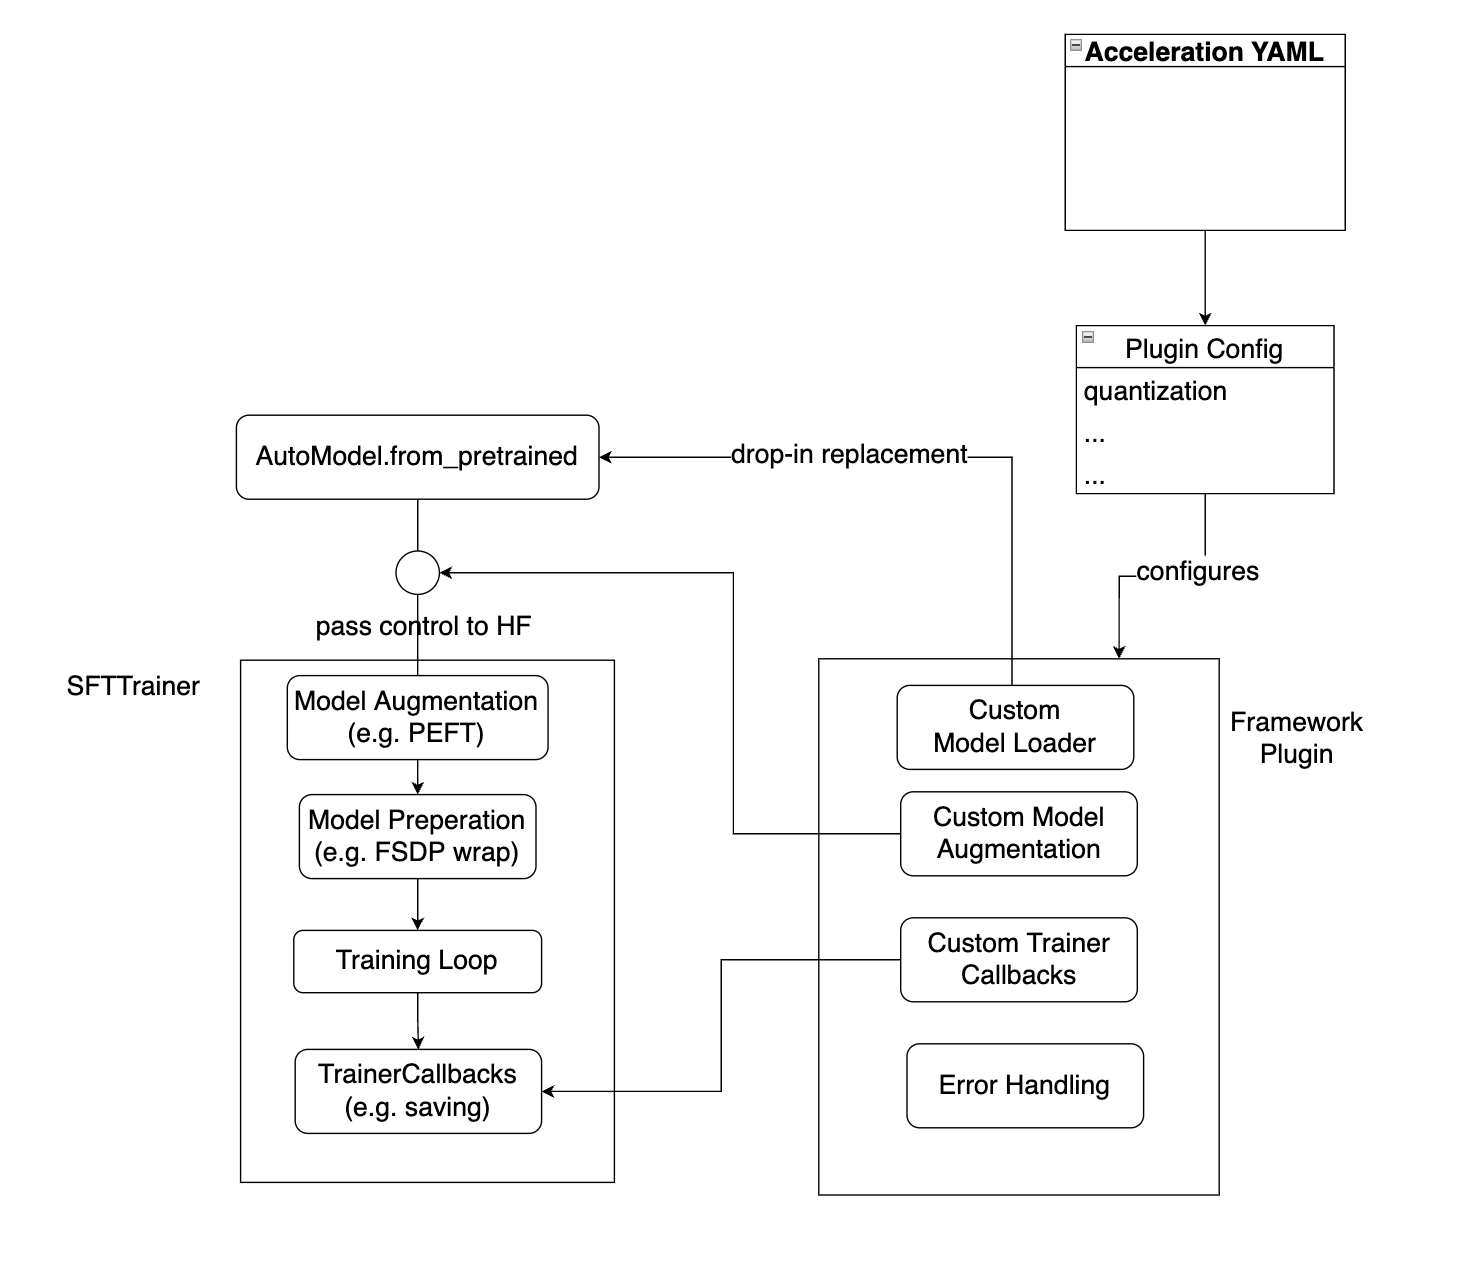
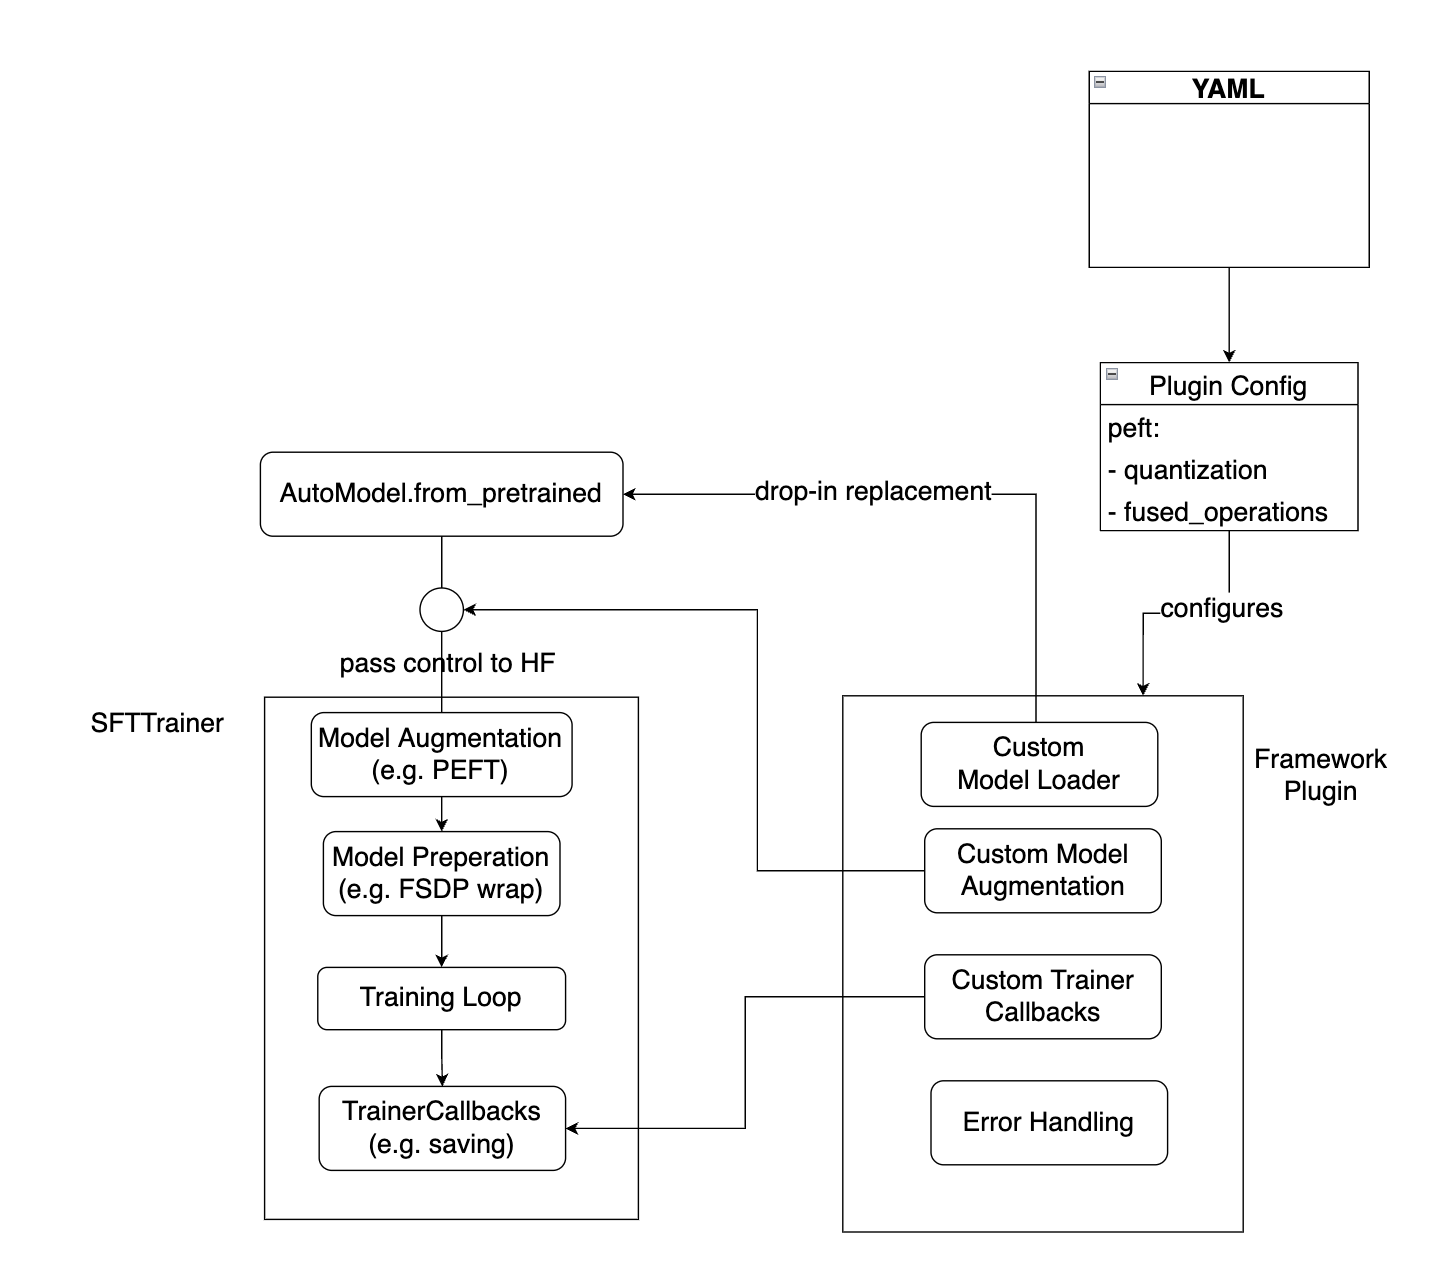
address comments and rebase over detailed design

diff --git a/architecture_records/002-acceleration-framework.md b/architecture_records/002-acceleration-framework.md
@@ -1,4 +1,4 @@
-# Training and FineTuning Acceleration Framework
+# Training Enhancements Framework
 
 **Deciders(s)**: Sukriti Sharma (sukriti.sharma4@ibm.com), Raghu Ganti (rganti@us.ibm.com), Laura Wynter (lwynter@sg.ibm.com), Fabian Lim (flim@sg.ibm.com), Aaron Chew (aaron.chew1@ibm.com)
 **Date (YYYY-MM-DD)**:  2024-04-11
@@ -31,14 +31,18 @@ Currently `sft_trainer.py` only can access those tools already integrated in HF.
 2. Prefix tuning from [PEFT](https://github.com/huggingface/peft).
 3. FSDP training from [accelerate](https://github.com/huggingface/accelerate).
 
-Below are various reasons for a framework to integrate custom training tools into [`sft_trainer.py`]. 
+Below are various reasons for a framework to integrate custom training tools into `sft_trainer.py`. 
 * Enable quick integrations of open-source techniques that have yet to be integrated into Huggingface.
 * Enable integrations of custom techniques developed by IBM researchers, that are not planned be integrated into Huggingface.
 
 Recently, it has been observed that new training techniques are released with an incomplete "preview" version. These "preview" versions tend to be not be fully integrated into OSS. Therefore, using new techniques typically involve additional work. This framework aims to allow timely integrations of such techniques into `sft_trainer.py`. A short exampler list of powerful training techniques but are "preview"-only include:
-- [Unsloth](https://github.com/unslothai/unsloth).
-- [megablocks](https://github.com/databricks/megablocks).
 - [AutoGPTQ](https://github.com/AutoGPTQ/AutoGPTQ).
+    * 4-bit quantization kernels to reduce memory storage of the base weights.
+- [Unsloth](https://github.com/unslothai/unsloth).
+    * Fused operation kernels
+    * Kernels for common model architectures (e.g., cross-entropy losses, RoPE embeddings and RMS norms).
+- [megablocks](https://github.com/databricks/megablocks).
+    * acceleration package for distributing mixture-of-experts that improves upon FSDP sharding.
 
 <!--
 Why this is a valuable problem to solve? What background information is needed to show how this design addresses the problem?
@@ -47,7 +51,6 @@ Which users are affected by the problem? Why is it a problem? What data supports
 -->
 
 ### User Benefit
-
 
 Users will benefit from powerful training tools integrated into the platform, that are not readily accessible from huggingface. With these tools, users will be able to train models with less GPU resources and/or quicker, resulting in quicker turnaround and improved user experience. 
 
@@ -80,7 +83,7 @@ The framework is designed to only modify them model at two integration points in
 3. an *optional* `callback` method to install `TrainerCallbacks` (if needed, e.g. custom save logic).
 
 ```python
-class FrameworkPlugin:
+class TuningAccelerationPlugin:
 
     # if specified, will restricted plugin to specified model archs
     # - useful if method is restricted to certain model architectures, e.g., only used 
@@ -111,26 +114,24 @@ Even though they are all optional, at least one out of the three should be imple
 ### Dependency Management
 
 Take note:
-- all plugin deps must be enforced to be optional deps in `pyproject.toml`, see [116](#116). If the dep is not installed, and the plugin is enabled, raise exception.
+- all plugin deps must be enforced to be optional deps in `pyproject.toml`, see [116](https://github.com/foundation-model-stack/fms-hf-tuning/pull/116). If the dep is not installed, and the plugin is enabled, raise exception.
 - any plugin that requires CUDA build tools (e.g. `triton` kernels) will need to be run in with [CUDA Toolkit dependencies (see this link for an example of a Debian installation)](https://developer.nvidia.com/cuda-12-2-0-download-archive?target_os=Linux&target_arch=x86_64&Distribution=Debian&target_version=11&target_type=deb_local). 
-    * in such cases, both the library (e.g. `triton`), and CUDA tools, need to be checked.
-
-
+    * whenever CUDA is needed, the framework will check for the CUDA_TOOLS dependency.
 
 ### Minimal and Controlled Changes to Training Script
 
-All proposed code changes to [`sft_trainer.py`] contained in minimal lines of code:
+All proposed code changes to `sft_trainer.py` contained in minimal lines of code:
 - Plugins loaded by discovery; transparent to `sft_trainer.py`.
 - Plugin configuration automatically parsed.
 - Passthrough to original operation if `Framework` is disabled.
 
 ```python
-from tuning.proposed_framework import Framework
+from tuning.acceleration import AccelerationFramework
 
 # Minor Change 1: creating the framework object
 framework = None
 if framework_args.config_file is not None:
-    framework = Framework(framework_args.config_file)
+    framework = AccelerationFramework(framework_args.config_file)
 
 # Minor Change 2: custom loader (if necessary)
 _model_loader = AutoModelForCausalLM.from_pretrained # default
@@ -162,17 +163,25 @@ trainer.add_callbacks(framework.callbacks())
 
 # call train
 trainer.train()
-
 ```
 
-The picture below summarizes the above discussion. 
+The picture below summarizes the above discussion in more detail. It demonstrates how the design will not contradict internal workings of [`SFTTrainer`].
 - Model is modified and then control passed to [`SFTTrainer`].
 - [`SFTTrainer`] also performs model augmentation internally (e.g., it installs PEFT adapters if `peft_config` is passed in). 
     * However, [`SFTTrainer`]'s model augmentation should be passed through if configs are omitted (e.g., if `peft_config = None`).
 - [`SFTTrainer`] will prepare model for distributed training (e.g. wrap with `FSDP`) internally. 
-    * thus Plugin implementers need to be aware that `FrameworkPlugin.augmentation` should not interfere with any model preperation that [`SFTTrainer`] will perform.
+    * thus Plugin implementers need to be aware that `TuningAccelerationPlugin.augmentation` should not interfere with any model preperation that [`SFTTrainer`] will perform.
 
 ![Framework](imgs/002-framework.png)
+
+### Acceleration Methods 
+
+A top priority is to incorporate methods that enchance PEFT. While PEFT is known to be memory efficient, it is known to be slower than full-finetuning if not *properly optimized*. Also, another topic of interest is to add support for 4D masks to enable packing while instruction tuning; this acceleration may require some adjustments to the data processing. 
+1. Add 4-bit `triton` kernels for PEFT base weights.
+2. Add fused kernels for PEFT base models, as well as reusable kernels for other models (e.g. cross-entropy loss, RoPE).
+3. Add support for 4D masking (may require `TuningAccelerationPlugin.augmentation` to also access the datasets).
+4. Add support for distributed training (i.e., `megablocks`).
+
 
 <!--
 This is the meat of the document, where you explain the decision. If you have multiple alternatives, be sure to use sub-sections for better separation of the idea, and list pros/cons to each approach. If there are alternatives that you have eliminated, you should also list those here, and explain why you believe your chosen approach is superior.
@@ -182,10 +191,13 @@ Make sure you’ve thought through and addressed the following sections. If a se
 
 ### Alternatives Considered
 
-[IN PROGRESS]
+We have considered the following.
 
-1. Alternative script to [`sft_trainer.py`].
-2. Do not touch 
+Consideration | Reason for Rejection
+--|--
+Only having `augmentation` and not employing any drop-in `loading` | Some methods like quantization has specialized checkpoints which require special loaders. Attempting to modify already instantiated models to load such specialized checkpoints can be error prone. Futhermore, for future extensions not having any drop-in `loading` can be a severe handicap.
+Adding tuning enchancements directly to `SFT_Trainer` | The trainer is a very complex object, and manipulating it in unintended ways can have serious repurcussions. As such, we choose to allow `TuningAccelerationPlugin.augmentation` to modify only the `Accelerator` object which can already do quite a bit of things, like adjust the FSDP wrapping policy (for distributed training).
+
 
 <!--
 - Make sure to discuss the relative merits of alternatives to your proposal.
@@ -193,10 +205,12 @@ Make sure you’ve thought through and addressed the following sections. If a se
 
 ## Consequences
 
-[IN PROGRESS]
+We have considered the following
 
-Drawbacks:
-- cannot support any plugin design that requires a controlled call in places not supported by `TrainerCallbacks`.
+Consideration | Background | Steps to Alleviate
+--|--|--
+Hosting custom packages | Sometimes the enhancements depend on OSS packages that have been improved on. | If the package
+Managing depdencies |  | Have `TuningAccelerationPlugin`
 
 <!--
 Describe the resulting context, after applying the decision. All consequences should be listed here, not just the "positive" ones. A particular decision may have positive, negative, and neutral consequences, but all of them affect the team and project in the future.
@@ -205,44 +219,35 @@ Describe the resulting context, after applying the decision. All consequences sh
 
 ## Detailed Design
 
-This section is optional. Elaborate on details if they’re important to understanding the design, but would make it hard to read the proposal section above.
 
-`acceleration.yaml`
-```
+<!--
+This section is optional. Elaborate on details if they’re important to understanding the design, but would make it hard to read the proposal section above.
+-->
+
+In this section we demonstrate how to implement an `AutoGPTQPlugin` that implements an accelerate PEFT training mode with 4 bit GPTQ base weights.
+
+This is an `acceleration.yaml`
+```yaml
 quantization:
   - requires_quantization: True
   - quant_num_bits: 4
-  - quantize_cache: '/home/user/'
   - quant_kernel: 'gptq-tritonv2'
-  - unsloth: False
 ```
 
-```
+```python
 from functools import partial
 
-class Framework:
+class AutoGPTQPlugin(TuningAccelerationPlugin):
     def __init__(self, acceleration_config_path:str) -> None:
-        self.acceleration_config = self.read_acceleration_config(acceleration_config_path)
-        self.num_bits = self.acceleration_config.quant_num_bits
-        self.requires_custom_loading = self.acceleration_config.requires_custom_loading
-        self.requires_quantization = self.acceleration_config.requires_quantization
-        self.quantize_cache = self.acceleration_config['quantize_cache']
-        self.kernel = self.acceleration_config['quant_kernel']
+        # ...  initialize config
 
-    def read_acceleration_config(self, acceleration_config_path):
-        pass
+    def model_loader(self, model_path, **kwargs):
 
-    def callbacks(self, *args, **kwargs):
-        pass
-    
-    def model_loader(self):
+        # ... maybe quantize if needed
         quantize_config = QuantizeConfig(
             bits=self.num_bits, 
         )
-        if self.requires_quantization:
-            return partial(AutoGPTQForCausalLM.from_pretrained, quantize_config = quantize_config)
-        else:
-            return partial(AutoGPTQForCausalLM.from_quantized, quantize_config = quantize_config)
+        return AutoGPTQForCausalLM.from_quantized(model_path, quantize_config = quantize_config)
 
     def augmentation(
         self, 
@@ -251,29 +256,12 @@ class Framework:
         train_args, 
         peft_config,
     ):
-        '''
-        This function is used for any augmentation of the model before trainings 
-        e.g. quantization, unsloth/PEFT installation and also MegaBlocks patching
-        '''
+        assert peft_config is not None, "need peft_config to install PEFT adapters"
 
-        if self.requires_quantization:
-            model.quantize()
-            model.save_quantized(save_dir = self.quantize_cache)
-
-        if peft_config:
-            # PEFT Installation
-            if 'gptq' in self.kernel:
-                from auto_gptq.utils.peft_utils import get_gptq_peft_model
-                model = get_gptq_peft_model(
-                    model, 
-                    peft_config = peft_config, 
-                )
-            else:
-                from peft import get_peft_model
-                model = get_peft_model(
-                    model, 
-                    peft_config
-                )        
-
-        return model
+        # PEFT Installation
+        from auto_gptq.utils.peft_utils import get_gptq_peft_model
+        return get_gptq_peft_model(
+            model, 
+            peft_config = peft_config, 
+        )
 ```
